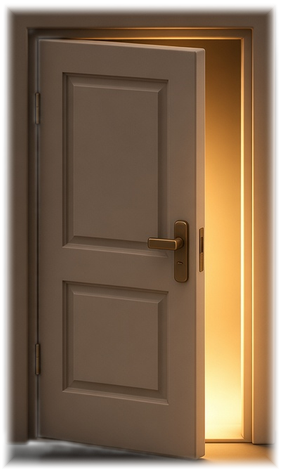
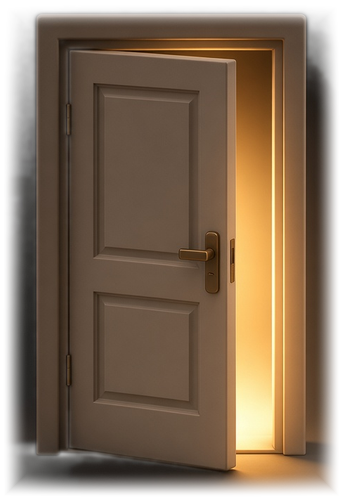
v12.1: tighten door cutouts (no floor shadow, no night box)
Re-cut day door to drop residual contact shadow; widen night radial
feather/pad so glow fades before the crop edge on #121212. Shared crop
kept for theme-toggle alignment. Cache-bust bump.

diff --git a/index.html b/index.html
@@ -6,7 +6,7 @@
 <title>Alexander Reevcrona</title>
 <meta name="description" content="Alexander Reevcrona went from a warehouse floor to building data and AI for hockey clubs.">
 <script>try{if(localStorage.getItem('theme')==='dark')document.documentElement.classList.add('dark')}catch(e){}try{var l=localStorage.getItem('lang');if(l!=='sv'&&l!=='en')l=(navigator.language||'').toLowerCase().indexOf('sv')===0?'sv':'en';document.documentElement.lang=l}catch(e){}</script>
-<link rel="stylesheet" href="style.css?v=1791640999">
+<link rel="stylesheet" href="style.css?v=1791641217">
 </head>
 <body>
 <header><div class="hdr-l"><button id="upBtn" class="icon-btn back-btn" aria-label="Back (Esc)" title="Back (Esc)" hidden><svg viewBox="0 0 24 24" width="18" height="18" fill="none" stroke="currentColor" stroke-width="1.6" stroke-linecap="round" stroke-linejoin="round" aria-hidden="true"><path d="m15 6-6 6 6 6"/></svg></button><nav id="crumb" class="crumb" aria-label="Breadcrumb"></nav></div>
@@ -31,6 +31,6 @@
     <div id="tl" class="tl" hidden aria-label="Timeline overview"></div>
   </section>
 </main>
-<script src="main.js?v=1791640999"></script>
+<script src="main.js?v=1791641217"></script>
 </body>
 </html>
